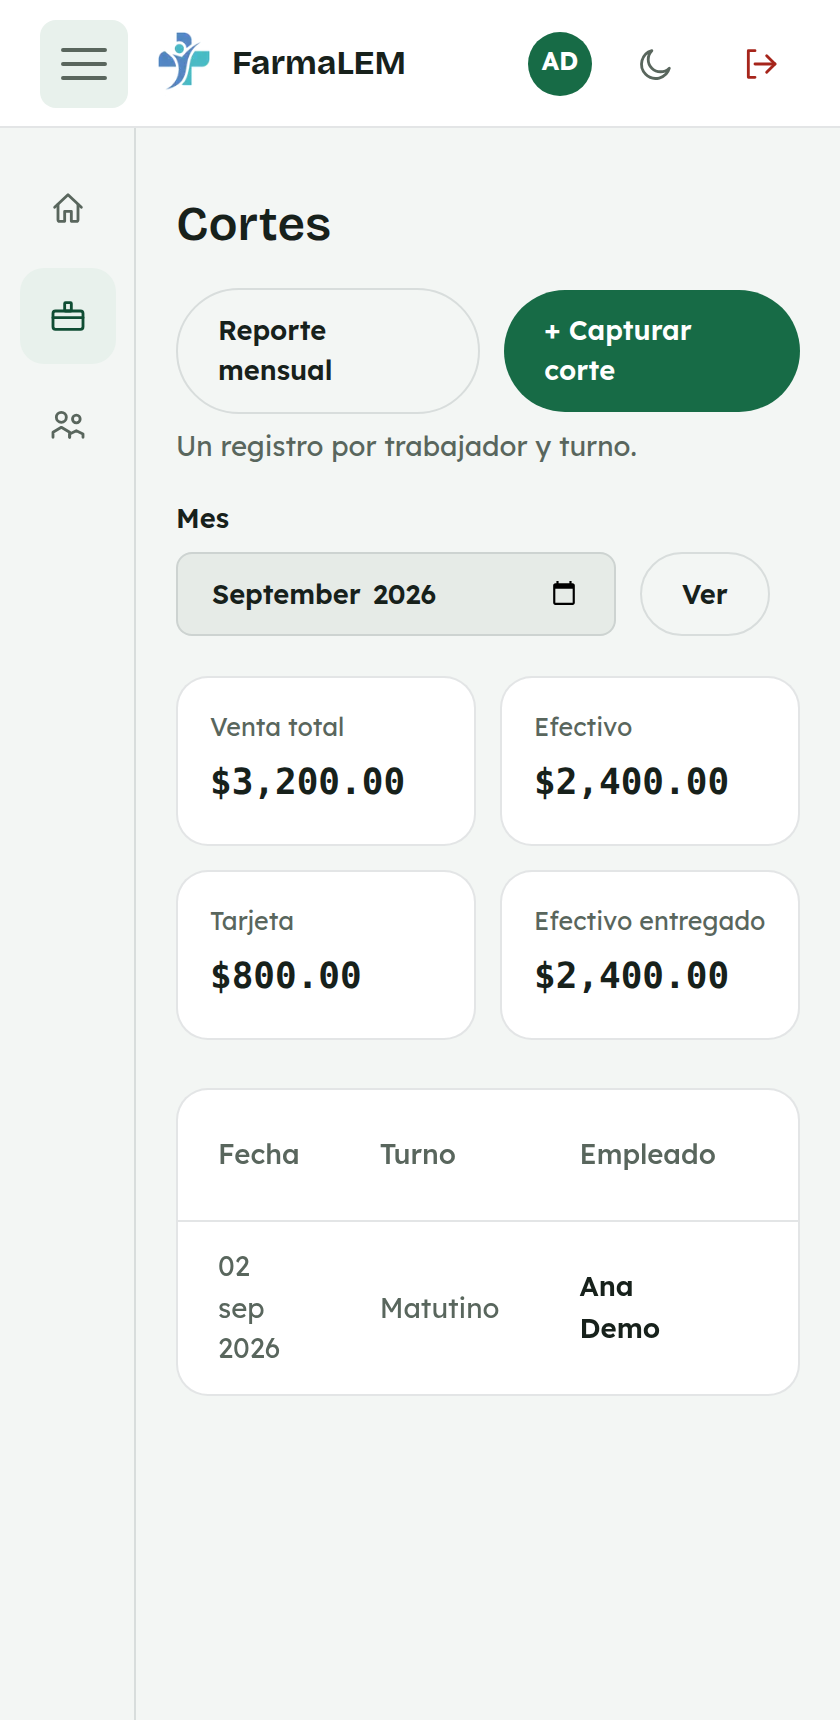
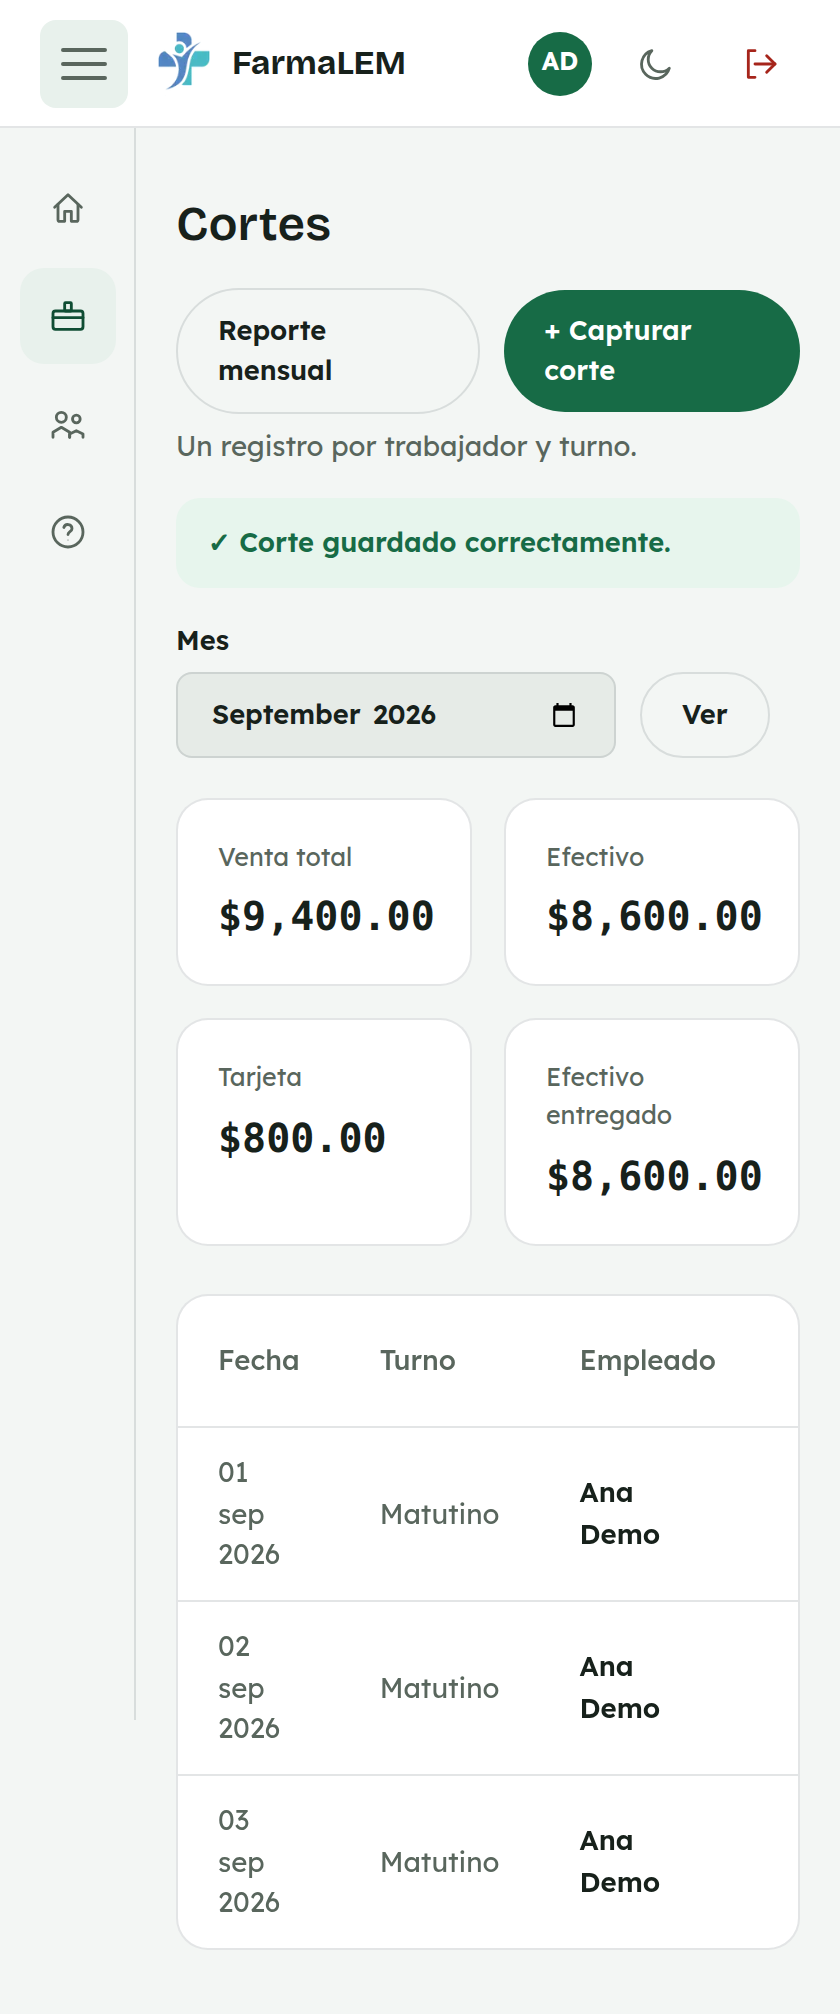
Agregar tutorial de Inicio y actualizar los demás al panel de empleados
- Nuevo tutorial "Cómo usar Inicio": meta de la semana, ventas por día,
  racha de cortes capturados y niveles de bono (pantalla rediseñada).
- Reloj checador: agrega la sección "Marcar a otro turno" (kiosco sin
  sesión para marcar la entrada/salida de alguien más).
- Cómo entrar al panel: documenta el nuevo enlace "¿Ya llegaste pero aún
  no puedes entrar?" en la pantalla de turno.
- Capturar el corte del día: documenta el aviso "Corte guardado
  correctamente" y la recuperación automática del borrador si la
  pantalla se recarga a medio capturar; refresca la captura de la lista.
- Renumera los tutoriales (Inicio queda como el 2) y actualiza el índice.

Claude-Session: https://claude.ai/code/session_01R7AjK7fQQrgUEXsXeWcaJN

diff --git a/docs/tutoriales/02-inicio.md b/docs/tutoriales/02-inicio.md
@@ -1,0 +1,89 @@
+# 2. Cómo usar Inicio
+
+**Para quién:** equipo de mostrador.
+**Cuánto tarda:** dos minutos.
+
+> Este tutorial empieza **después** de que ya entraste al panel (ver
+> [tutorial 1](01-como-entrar-al-panel.md)). **Inicio** es la primera
+> pantalla que ves al entrar — aquí se explica cada parte y para qué sirve.
+
+> **Nota:** las capturas de esta guía se hicieron con una empleada de
+> ejemplo (**Ana Demo**) en una copia de prueba de la app — no son datos
+> reales. Tu pantalla se va a ver igual, solo que con tus propios números.
+
+---
+
+## Meta de la semana
+
+Arriba de todo ves cuánto llevas vendido esta semana (de lunes a domingo)
+contra la meta, incluyendo los cortes que ya capturaste aunque
+administración todavía no los apruebe. Debajo, tu última marca del reloj
+checador y cuántos días has trabajado esta semana.
+
+![Sección Meta de la semana: $8,300 de $9,000, Nivel 1 alcanzado, faltan $700 para el Nivel 2 y un bono de $300](img/inicio-01-meta.png)
+
+*En la computadora del mostrador:*
+
+![Lo mismo en pantalla de computadora](img/inicio-01-meta-desktop.png)
+
+## Ventas por día y racha de cortes
+
+La gráfica muestra cuánto vendiste cada día y las líneas punteadas son el
+promedio diario que necesitas para alcanzar cada nivel de bono.
+
+Debajo, **"Cortes capturados esta semana"** te dice de un vistazo qué días
+ya quedaron registrados:
+
+- ✓ verde = ese turno ya tiene su corte capturado.
+- **!** rojo = ese turno ya se trabajó pero todavía no tiene corte — hace
+  falta capturarlo.
+- **–** gris = todavía no llega ese día.
+
+![Ventas por día y racha de cortes, con el jueves marcado con un "!" en rojo porque falta capturar ese corte](img/inicio-02-antes.png)
+
+*En computadora:*
+
+![Lo mismo en pantalla de computadora](img/inicio-02-antes-desktop.png)
+
+Justo debajo está el **reloj checador** (para marcar tu entrada/salida, o
+[marcar a otro turno](03-reloj-checador.md#marcar-a-otro-turno)) y el botón
+**"Capturar corte"**.
+
+En cuanto guardas el [corte del día](04-capturar-corte-del-dia.md), su
+casilla en la racha cambia a palomita verde de inmediato — así confirmas que
+ya quedó, sin tener que ir a la lista de **Cortes** a revisar.
+
+![Racha de cortes ya completa: los cuatro turnos de la semana en verde, "4 de 4 turnos capturados"](img/inicio-02-despues.png)
+
+*En computadora:*
+
+![Lo mismo en pantalla de computadora](img/inicio-02-despues-desktop.png)
+
+## Niveles de bono
+
+Aquí ves los dos niveles de bono de tu turno: cuánto hay que vender en la
+semana para alcanzar cada uno y cuánto es el bono. **"Vas en el Nivel…"** te
+dice dónde estás parada ahora mismo con lo que llevas vendido.
+
+![Sección Niveles de bono: Nivel 1 ($6,000, +$150) y Nivel 2 ($9,000, +$300), "Vas en el Nivel 1"](img/inicio-03-bonos.png)
+
+*En computadora:*
+
+![Lo mismo en pantalla de computadora](img/inicio-03-bonos-desktop.png)
+
+---
+
+## Si algo no sale
+
+| Lo que ves | Qué significa | Qué hacer |
+|---|---|---|
+| Un turno marcado con **"!"** que ya trabajaste | Ese día todavía no tiene corte capturado. | Ve a "Capturar corte" y captúralo — la racha se actualiza sola al guardar. |
+| La meta o la gráfica no cuadran con lo que recuerdas | Puede que falte aprobar o corregir algún corte. | Revisa la lista de **Cortes** o avisa a administración. |
+
+---
+
+## Para administración
+
+Administración ve una pantalla de Inicio distinta (con reportes generales en
+vez de la meta personal), así que este tutorial es solo para el equipo de
+mostrador.

diff --git a/docs/tutoriales/03-reloj-checador.md b/docs/tutoriales/03-reloj-checador.md
@@ -1,4 +1,4 @@
-# 2. Cómo usar el reloj checador
+# 3. Cómo usar el reloj checador
 
 **Para quién:** todo el equipo de mostrador.
 **Cuándo:** al llegar a tu turno y al terminarlo.
@@ -63,6 +63,44 @@ Si la siguiente persona va a usar esa misma computadora, toca **"Cambiar de
 turno"** (arriba, junto al título "Reloj checador"). Eso cierra tu sesión y
 regresa a la pantalla para elegir turno — la siguiente persona solo necesita
 su PIN.
+
+## Marcar a otro turno
+
+¿Llegó tu compañera y tú sigues en el mostrador capturando algo? No hace
+falta cerrar tu sesión para que ella marque su entrada. Desde **Inicio** (o
+desde el enlace ["¿Ya llegaste pero aún no puedes
+entrar?"](01-como-entrar-al-panel.md) en la pantalla de turno) hay un botón
+**"Marcar a otro turno"**. Sirve para marcar la entrada o salida de alguien
+más sin tocar tu propia sesión.
+
+Primero pide qué turno llegó:
+
+![Pantalla "Marcar Entrada / Salida": elegir turno, MATUTINO o VESPERTINO, sin abrir sesión](img/marcar-01-elegir-turno.png)
+
+*En computadora:*
+
+![Lo mismo en pantalla de computadora](img/marcar-01-elegir-turno-desktop.png)
+
+Después, igual que en el reloj checador normal, solo pide el **PIN corto**
+de esa persona — no su contraseña ni la tuya.
+
+![Pantalla pidiendo el PIN corto de la persona que va a marcar](img/marcar-02-pin.png)
+
+*En computadora:*
+
+![Lo mismo en pantalla de computadora](img/marcar-02-pin-desktop.png)
+
+Confirma su nombre, la hora y si quedó como entrada o salida.
+
+![Confirmación: "Luis Demo", hora, "Entrada registrada · Vespertino", enlaces Marcar otra persona y Regresar](img/marcar-03-confirmacion.png)
+
+*En computadora:*
+
+![Lo mismo en pantalla de computadora](img/marcar-03-confirmacion-desktop.png)
+
+**"Marcar otra persona"** te regresa a elegir turno por si hace falta marcar
+a alguien más; **"Regresar"** te lleva de vuelta a la pantalla de turno sin
+afectar tu sesión.
 
 ## Si algo no sale
 

diff --git a/docs/tutoriales/01-como-entrar-al-panel.md b/docs/tutoriales/01-como-entrar-al-panel.md
@@ -28,6 +28,15 @@ mostrador. Se abre directo en la pantalla para elegir tu turno.
 Cada botón muestra el nombre de quien está asignado a ese turno. Toca el
 tuyo — por ejemplo, **MATUTINO**.
 
+> **¿Ya llegaste pero aún no puedes entrar?** Justo debajo de los turnos hay
+> un enlace **"¿Ya llegaste pero aún no puedes entrar? Marca tu entrada
+> aquí"**. Es para cuando ya llegaste a trabajar pero, por ejemplo, tu
+> compañera todavía está usando la computadora para capturar su corte. Te
+> lleva a una pantalla aparte donde marcas tu entrada con tu turno y tu PIN,
+> sin necesidad de abrir tu sesión — el paso a paso completo está en la
+> sección ["Marcar a otro turno"](03-reloj-checador.md#marcar-a-otro-turno)
+> del tutorial del reloj checador.
+
 ## Paso 2 — La primera vez: tu contraseña
 
 La primera vez que entras desde esa computadora, te pide tu **contraseña**
@@ -53,8 +62,11 @@ accesos directos a lo que más usas.
 
 ![Lo mismo en pantalla de computadora](img/entrar-04-inicio-desktop.png)
 
-Desde aquí puedes ir directo al [reloj checador](02-reloj-checador.md) o a
-[capturar el corte del día](03-capturar-corte-del-dia.md).
+Desde aquí puedes ir directo al [reloj checador](03-reloj-checador.md) o a
+[capturar el corte del día](04-capturar-corte-del-dia.md). El tutorial
+["Cómo usar Inicio"](02-inicio.md) explica a detalle cada parte de esta
+pantalla: tu meta de la semana, tus ventas por día, tu racha de cortes
+capturados y los niveles de bono.
 
 ---
 

diff --git a/docs/tutoriales/04-capturar-corte-del-dia.md b/docs/tutoriales/04-capturar-corte-del-dia.md
@@ -1,4 +1,4 @@
-# 3. Cómo capturar el corte del día
+# 4. Cómo capturar el corte del día
 
 **Para quién:** todo el equipo de mostrador.
 **Cuándo:** al terminar tu turno, con la venta del día y el efectivo listos.
@@ -83,14 +83,26 @@ en el celular abre la cámara directo. Cuando todo esté correcto, toca
 
 ## Listo
 
+Al guardar verás **"✓ Corte guardado correctamente."** arriba de la lista.
 Tu corte queda guardado en **Cortes**, con estado **"Por revisar"** hasta que
 administración lo apruebe.
 
-![Pantalla de Cortes mostrando el corte recién guardado: venta $3,200.00, efectivo $2,400.00, tarjeta $800.00 y el registro del día en la lista](img/corte-06-guardado-en-lista.png)
+![Pantalla de Cortes con el aviso "✓ Corte guardado correctamente." y el registro del día en la lista](img/corte-06-guardado-en-lista.png)
 
 *En computadora:*
 
 ![Lo mismo en pantalla de computadora](img/corte-06-guardado-en-lista-desktop.png)
+
+---
+
+## Si la pantalla se recarga a medio capturar
+
+No pierdes lo que ya escribiste: FarmaLEM guarda un borrador en tu celular o
+computadora mientras capturas. Si la página se llega a recargar sola (por
+ejemplo por una actualización del panel), al volver a abrir **"Capturar
+corte"** verás el aviso **"Recuperamos lo que tenías escrito de un intento
+anterior — revísalo antes de guardar."** con tus datos ya puestos. Solo
+revísalo antes de guardar, por si algo quedó a medias.
 
 ---
 

diff --git a/docs/tutoriales/README.md b/docs/tutoriales/README.md
@@ -7,8 +7,9 @@ cada paso.
 | # | Tutorial | Para quién |
 |---|---|---|
 | 1 | [Cómo entrar al panel](01-como-entrar-al-panel.md) | Todo el equipo |
-| 2 | [Cómo usar el reloj checador](02-reloj-checador.md) | Mostrador (+ sección para administración) |
-| 3 | [Cómo capturar el corte del día](03-capturar-corte-del-dia.md) | Mostrador (+ sección para administración) |
+| 2 | [Cómo usar Inicio](02-inicio.md) | Mostrador |
+| 3 | [Cómo usar el reloj checador](03-reloj-checador.md) | Mostrador (+ sección para administración) |
+| 4 | [Cómo capturar el corte del día](04-capturar-corte-del-dia.md) | Mostrador (+ sección para administración) |
 
 Se irán agregando más conforme se usen nuevas pantallas del panel (sueldos,
 inventario, etc.).
